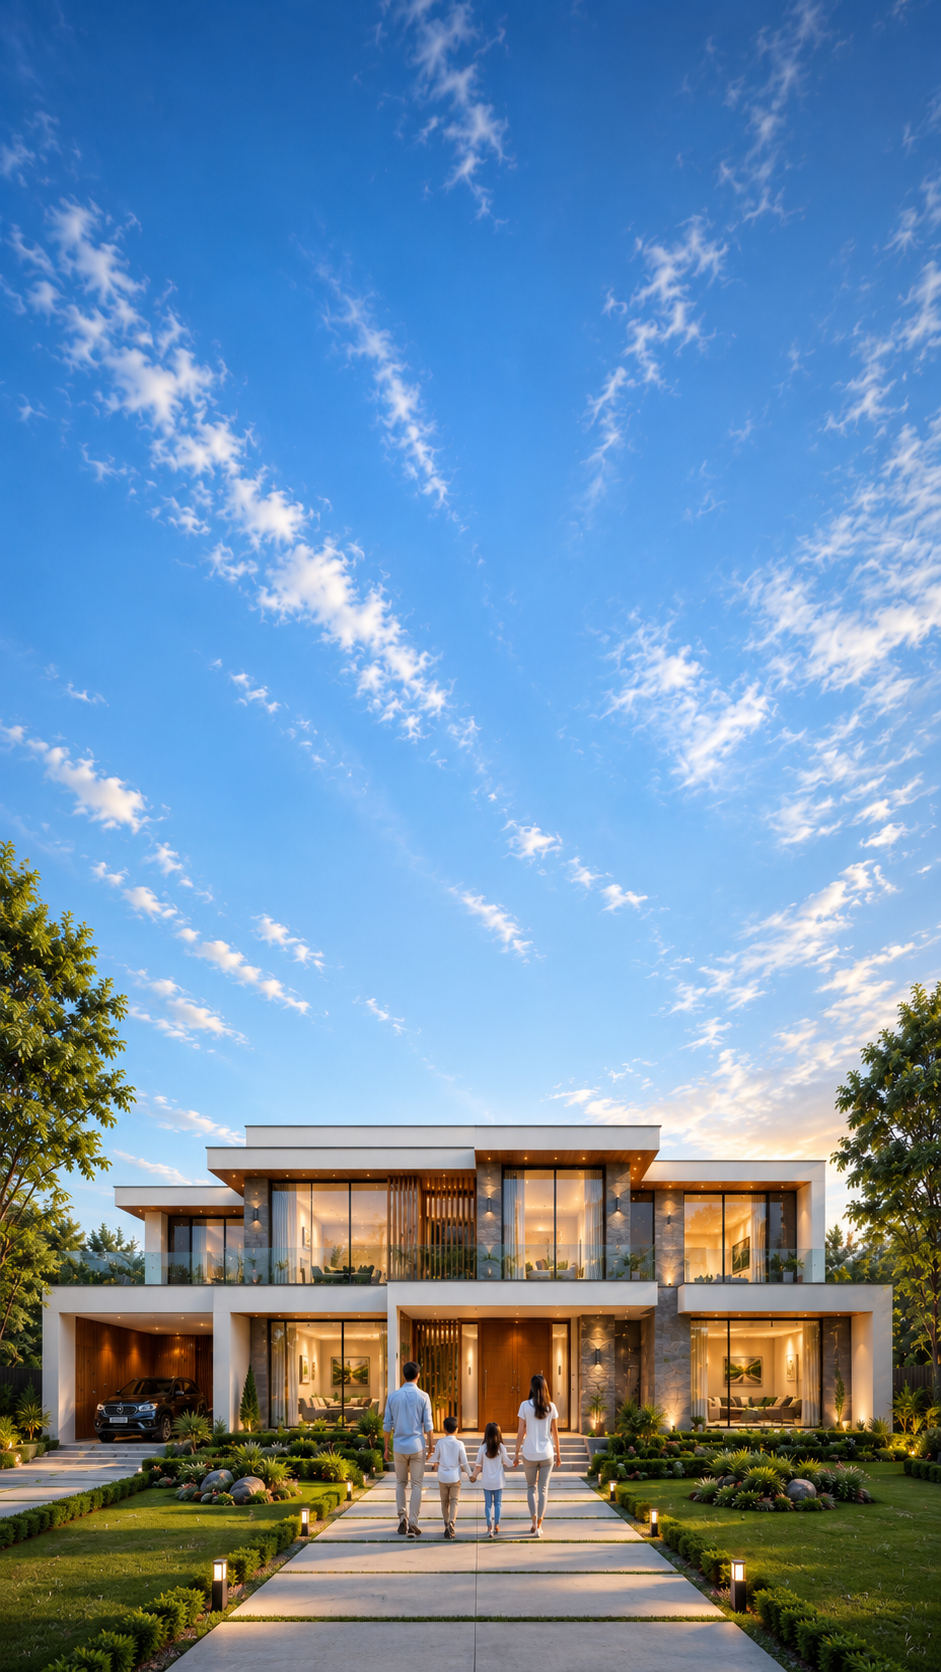
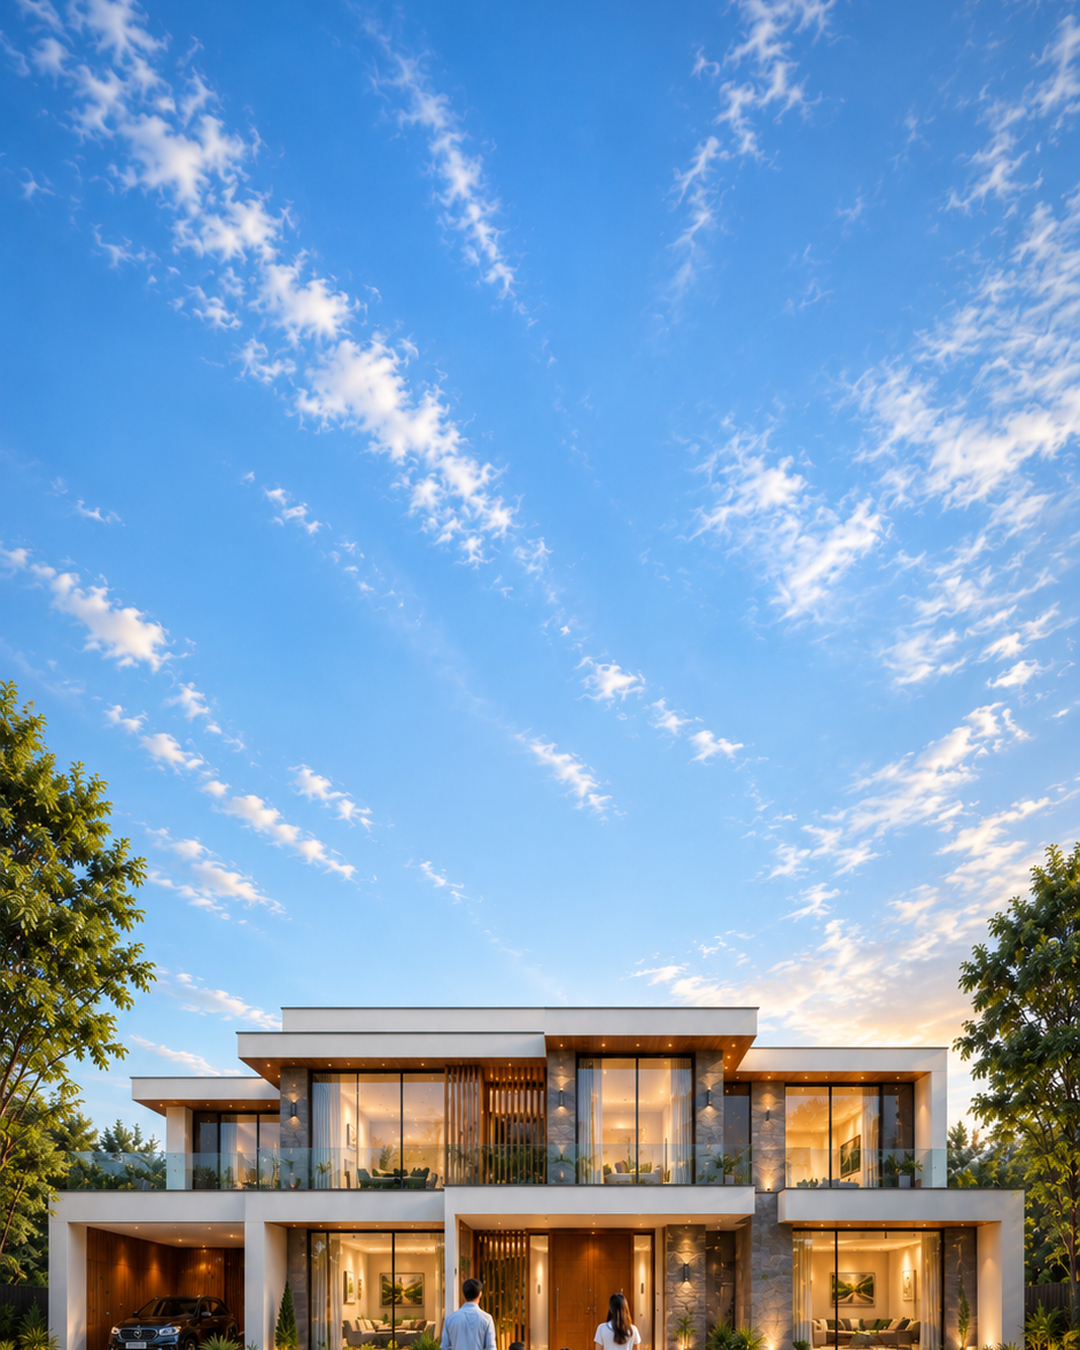
feat(hero): update hero section with SEO heading and improved gradient overlay

diff --git a/src/components/site/home/hero-section.tsx b/src/components/site/home/hero-section.tsx
@@ -32,7 +32,10 @@ export function HeroSection({ sublocations, unitTypes, banners = [] }: HeroSecti
   return (
     <section className="relative min-h-screen flex flex-col justify-center overflow-hidden bg-white">
 
-      {/* ── Hero background image (responsive) ─────────────────── */}
+      {/* ── SEO-only heading (banner artwork carries the visible text) ── */}
+      <h1 className="sr-only">Your Trusted Real Estate Partner in {city}</h1>
+
+      {/* ── Hero background: ads banner carousel, static fallback ────── */}
       {banners.length > 0 ? (
         <HeroCarousel banners={banners} citySlug={citySlug} />
       ) : (
@@ -48,29 +51,17 @@ export function HeroSection({ sublocations, unitTypes, banners = [] }: HeroSecti
         </picture>
       )}
 
-      {/* ── Gradient overlay — (bottom-to-top) ──────────── */}
+      {/* ── Bottom fade into page background ─────────────────────────── */}
       <div
-        className="absolute inset-x-0 bottom-0 h-[60%] pointer-events-none"
+        className="absolute inset-x-0 bottom-0 h-[25%] pointer-events-none"
         style={{
           background:
-            "linear-gradient(to top, rgba(255,255,255,1) 0%, rgba(255,255,255,0.8) 25%,rgba(255,255,255,0.5) 40%, rgba(255,255,255,0) 100%)",
+            "linear-gradient(to top, rgba(255,255,255,1) 0%, rgba(255,255,255,0) 100%)",
         }}
       />
 
-      {/* ── Content ─────────────────────────────────────────────── */}
+      {/* ── Content: search bar + category strip ─────────────────────── */}
       <div className="relative z-10 tf-container flex flex-col items-center justify-center text-center w-full px-4 mt-20 md:mt-12">
-
-        {/* H1 */}
-        <h1
-          className="font-['Lexend',sans-serif] text-[#0a0a0a] leading-[1.06] tracking-[-0.02em] mb-6 drop-shadow-sm"
-          style={{ fontSize: "clamp(30px, 4.4vw, 62px)", fontWeight: 300 }}
-        >
-          Your Trusted Real Estate Partner
-          <br className="hidden md:block!" /> in{" "}
-          <span className="text-[#27427f] font-semibold">{city}</span>
-        </h1>
-
-        {/* Search bar */}
         <div className="w-full">
           <HomeSearch
             key={city}
@@ -79,12 +70,12 @@ export function HeroSection({ sublocations, unitTypes, banners = [] }: HeroSecti
           />
         </div>
 
-        <div 
-          className="grid grid-cols-4 sm:hidden md:flex justsm:flex-wrapify-center justify-around items-center gap-2 sm:gap-3 md:gap-4 w-full max-w-4xl mx-auto h-25 mt-12!"
+        <div
+          className="grid grid-cols-4 sm:hidden md:flex justsm:flex-wrapify-center justify-around items-center gap-2 sm:gap-3 md:gap-4 w-full max-w-4xl mx-auto mt-12!"
         >
           {propertyCategories.map(([title, href, iconSource]) => (
-            <Link 
-              key={title} 
+            <Link
+              key={title}
               href={href}
               className="group flex flex-col items-center justify-center bg-white rounded-xl p-1.5 size-23 aspect-square shadow-sm hover:shadow-md ring-1 ring-black/5 transition-all hover:bg-[#27427f]! hover:-translate-y-1"
             >
